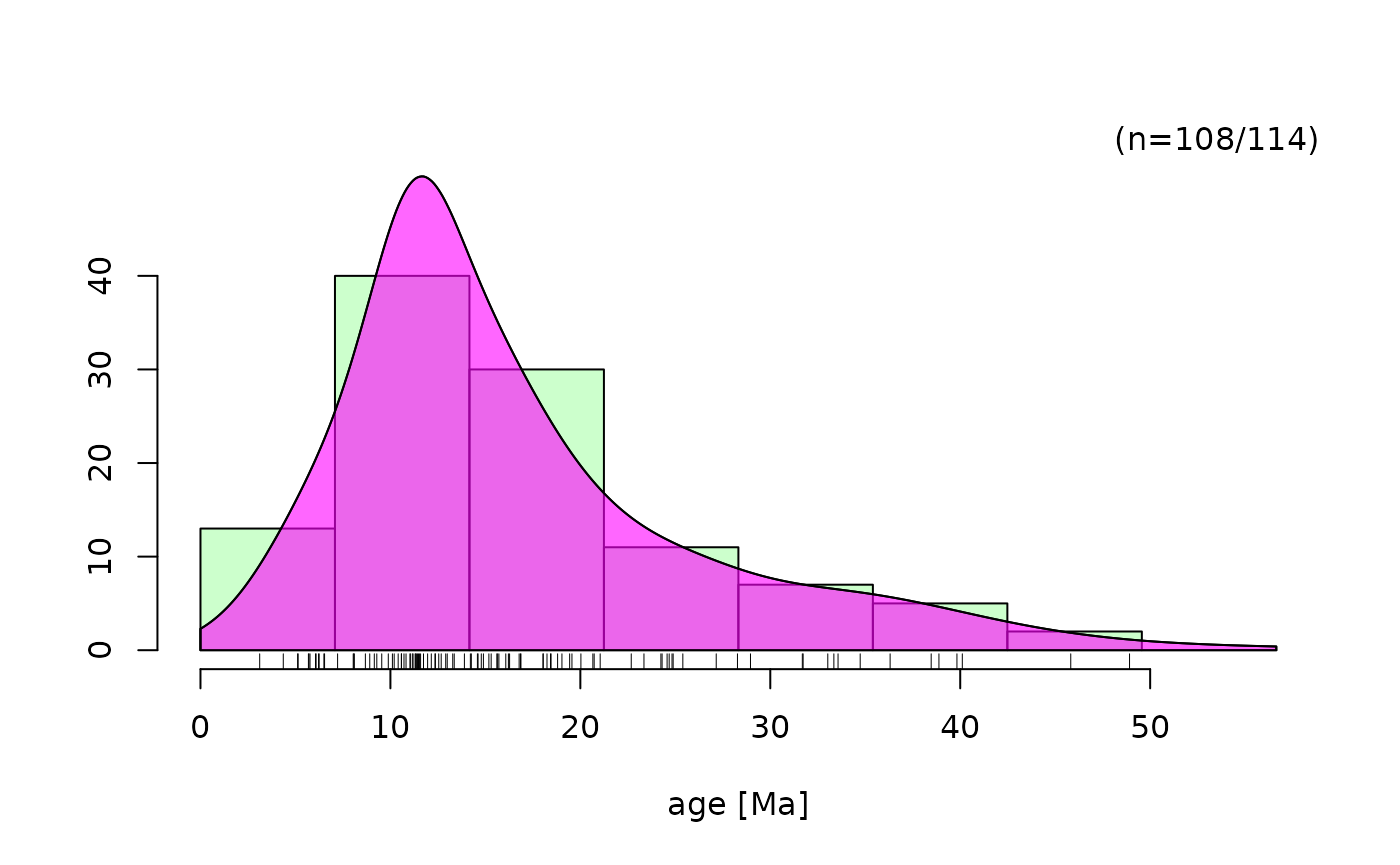
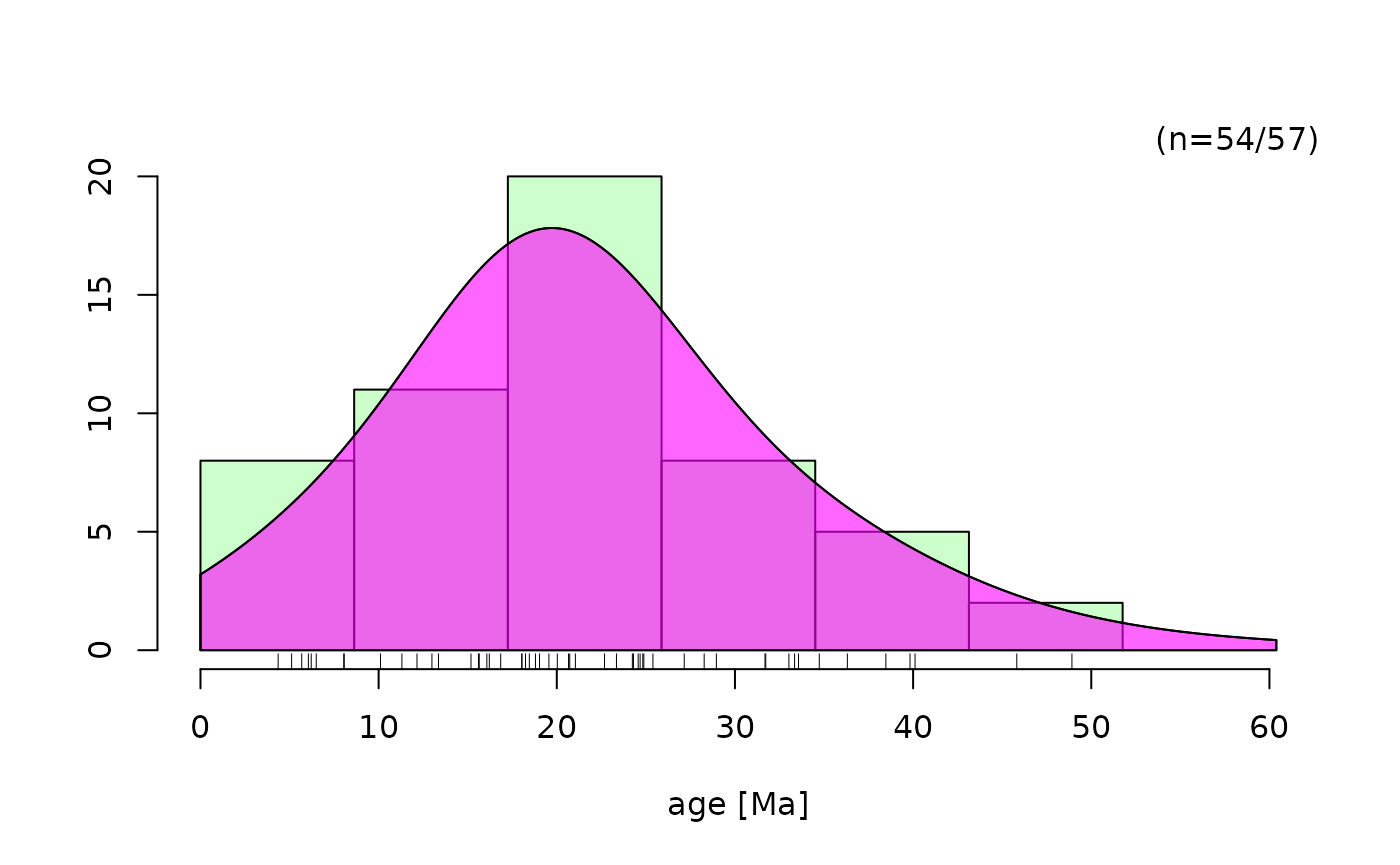
Deploying to gh-pages from @ tobiste/laftr@8ab424a7ccd1a854e1b14a711eefb8ea1fcf62c2 🚀

diff --git a/reference/aKDE.html b/reference/aKDE.html
@@ -215,22 +215,24 @@ re-scaled to keep doing so. Will be ignored is <code>adaptive</code> is <code>TR
 
     <div class="section level2">
     <h2 id="ref-examples">Examples<a class="anchor" aria-label="anchor" href="#ref-examples"></a></h2>
-    <div class="sourceCode"><pre class="sourceCode r"><code><span class="r-in"><span><span class="fu"><a href="https://rdrr.io/r/utils/data.html" class="external-link">data</a></span><span class="op">(</span><span class="st">"examples"</span>, package <span class="op">=</span> <span class="st">"IsoplotR"</span><span class="op">)</span></span></span>
-<span class="r-in"><span><span class="co"># IsoplotR::kde(examples$UPb)</span></span></span>
-<span class="r-in"><span><span class="va">ages</span> <span class="op">&lt;-</span> <span class="fu">IsoplotR</span><span class="fu">::</span><span class="fu"><a href="https://rdrr.io/pkg/IsoplotR/man/age.html" class="external-link">age</a></span><span class="op">(</span><span class="va">examples</span><span class="op">$</span><span class="va">UPb</span><span class="op">)</span><span class="op">[</span>, <span class="st">"t.conc"</span><span class="op">]</span></span></span>
-<span class="r-in"><span><span class="va">unc</span> <span class="op">&lt;-</span> <span class="fu">IsoplotR</span><span class="fu">::</span><span class="fu"><a href="https://rdrr.io/pkg/IsoplotR/man/age.html" class="external-link">age</a></span><span class="op">(</span><span class="va">examples</span><span class="op">$</span><span class="va">UPb</span><span class="op">)</span><span class="op">[</span>, <span class="st">"s[t.conc]"</span><span class="op">]</span></span></span>
-<span class="r-err co"><span class="r-pr">#&gt;</span> <span class="error">Error in IsoplotR::age(examples$UPb)[, "s[t.conc]"]:</span> subscript out of bounds</span>
-<span class="r-in"><span></span></span>
-<span class="r-in"><span><span class="fu">ggplot2</span><span class="fu">::</span><span class="fu"><a href="https://ggplot2.tidyverse.org/reference/ggplot.html" class="external-link">ggplot</a></span><span class="op">(</span>data <span class="op">=</span> <span class="fu"><a href="https://rdrr.io/r/base/data.frame.html" class="external-link">data.frame</a></span><span class="op">(</span>ages <span class="op">=</span> <span class="va">ages</span>, unc <span class="op">=</span> <span class="va">unc</span><span class="op">)</span>, mapping <span class="op">=</span> <span class="fu">ggplot2</span><span class="fu">::</span><span class="fu"><a href="https://ggplot2.tidyverse.org/reference/aes.html" class="external-link">aes</a></span><span class="op">(</span>x <span class="op">=</span> <span class="va">ages</span><span class="op">)</span><span class="op">)</span> <span class="op">+</span></span></span>
+    <div class="sourceCode"><pre class="sourceCode r"><code><span class="r-in"><span><span class="co">#' data("sample")</span></span></span>
+<span class="r-in"><span><span class="va">example</span> <span class="op">&lt;-</span> <span class="fu"><a href="age_ICP.html">age_ICP</a></span><span class="op">(</span><span class="va">sample</span>, zeta <span class="op">=</span> <span class="fu"><a href="https://rdrr.io/r/base/c.html" class="external-link">c</a></span><span class="op">(</span><span class="fl">0.1188</span>, <span class="fl">0.0119</span><span class="op">)</span><span class="op">)</span></span></span>
+<span class="r-in"><span><span class="co"># IsoplotR::kde(example$ages$t)</span></span></span>
+<span class="r-in"><span><span class="fu">ggplot2</span><span class="fu">::</span><span class="fu"><a href="https://ggplot2.tidyverse.org/reference/ggplot.html" class="external-link">ggplot</a></span><span class="op">(</span>data <span class="op">=</span> <span class="va">example</span><span class="op">$</span><span class="va">ages</span>, mapping <span class="op">=</span> <span class="fu">ggplot2</span><span class="fu">::</span><span class="fu"><a href="https://ggplot2.tidyverse.org/reference/aes.html" class="external-link">aes</a></span><span class="op">(</span>x <span class="op">=</span> <span class="va">t</span><span class="op">)</span><span class="op">)</span> <span class="op">+</span></span></span>
 <span class="r-in"><span>  <span class="fu">stat_aKDE</span><span class="op">(</span>adaptive <span class="op">=</span> <span class="cn">TRUE</span><span class="op">)</span> <span class="op">+</span></span></span>
 <span class="r-in"><span>  <span class="fu">stat_aKDE</span><span class="op">(</span>adaptive <span class="op">=</span> <span class="cn">FALSE</span>, color <span class="op">=</span> <span class="st">"red"</span>, fill <span class="op">=</span> <span class="cn">NA</span><span class="op">)</span></span></span>
-<span class="r-err co"><span class="r-pr">#&gt;</span> <span class="error">Error in eval(expr, envir, enclos):</span> object 'unc' not found</span>
+<span class="r-wrn co"><span class="r-pr">#&gt;</span> <span class="warning">Warning: </span>Removed 3 rows containing non-finite values (`stat_density_adaptive()`).</span>
+<span class="r-wrn co"><span class="r-pr">#&gt;</span> <span class="warning">Warning: </span>Removed 3 rows containing non-finite values (`stat_density_adaptive()`).</span>
+<span class="r-plt img"><img src="aKDE-1.png" alt="" width="700" height="433"></span>
 <span class="r-in"><span></span></span>
-<span class="r-in"><span><span class="fu">ggplot2</span><span class="fu">::</span><span class="fu"><a href="https://ggplot2.tidyverse.org/reference/ggplot.html" class="external-link">ggplot</a></span><span class="op">(</span>data <span class="op">=</span> <span class="fu"><a href="https://rdrr.io/r/base/data.frame.html" class="external-link">data.frame</a></span><span class="op">(</span>ages <span class="op">=</span> <span class="va">ages</span>, unc <span class="op">=</span> <span class="va">unc</span><span class="op">)</span>, mapping <span class="op">=</span> <span class="fu">ggplot2</span><span class="fu">::</span><span class="fu"><a href="https://ggplot2.tidyverse.org/reference/aes.html" class="external-link">aes</a></span><span class="op">(</span>x <span class="op">=</span> <span class="va">ages</span>, weight <span class="op">=</span> <span class="va">ages</span><span class="op">/</span><span class="va">unc</span><span class="op">)</span><span class="op">)</span> <span class="op">+</span></span></span>
-<span class="r-in"><span>  <span class="fu">geom_aKDE</span><span class="op">(</span><span class="fu">aes</span><span class="op">(</span>y <span class="op">=</span> <span class="fu">after_stat</span><span class="op">(</span><span class="va">scaled</span><span class="op">)</span><span class="op">)</span>, from <span class="op">=</span> <span class="fl">220</span>, to <span class="op">=</span> <span class="fl">260</span>, kernel <span class="op">=</span> <span class="st">"epanechnikov"</span>, fill <span class="op">=</span> <span class="st">"steelblue"</span>, alpha <span class="op">=</span> <span class="fl">.75</span><span class="op">)</span> <span class="op">+</span></span></span>
-<span class="r-in"><span>  <span class="fu">ggplot2</span><span class="fu">::</span><span class="fu"><a href="https://ggplot2.tidyverse.org/reference/geom_histogram.html" class="external-link">geom_histogram</a></span><span class="op">(</span><span class="fu">aes</span><span class="op">(</span>y <span class="op">=</span> <span class="fu">after_stat</span><span class="op">(</span><span class="va">ncount</span><span class="op">)</span><span class="op">)</span>, color <span class="op">=</span> <span class="st">"grey"</span>, fill <span class="op">=</span> <span class="st">"grey"</span>, alpha <span class="op">=</span> <span class="fl">.5</span><span class="op">)</span> <span class="op">+</span></span></span>
+<span class="r-in"><span><span class="fu">ggplot2</span><span class="fu">::</span><span class="fu"><a href="https://ggplot2.tidyverse.org/reference/ggplot.html" class="external-link">ggplot</a></span><span class="op">(</span>data <span class="op">=</span> <span class="va">example</span><span class="op">$</span><span class="va">ages</span>, mapping <span class="op">=</span> <span class="fu">ggplot2</span><span class="fu">::</span><span class="fu"><a href="https://ggplot2.tidyverse.org/reference/aes.html" class="external-link">aes</a></span><span class="op">(</span>x <span class="op">=</span> <span class="va">t</span>, weight <span class="op">=</span> <span class="va">t</span> <span class="op">/</span> <span class="va">st</span><span class="op">)</span><span class="op">)</span> <span class="op">+</span></span></span>
+<span class="r-in"><span>  <span class="fu">geom_aKDE</span><span class="op">(</span><span class="fu">ggplot2</span><span class="fu">::</span><span class="fu"><a href="https://ggplot2.tidyverse.org/reference/aes.html" class="external-link">aes</a></span><span class="op">(</span>y <span class="op">=</span> <span class="fu">ggplot2</span><span class="fu">::</span><span class="fu"><a href="https://ggplot2.tidyverse.org/reference/aes_eval.html" class="external-link">after_stat</a></span><span class="op">(</span><span class="va">scaled</span><span class="op">)</span><span class="op">)</span>, kernel <span class="op">=</span> <span class="st">"epanechnikov"</span>, fill <span class="op">=</span> <span class="st">"steelblue"</span>, alpha <span class="op">=</span> <span class="fl">.75</span><span class="op">)</span> <span class="op">+</span></span></span>
+<span class="r-in"><span>  <span class="fu">ggplot2</span><span class="fu">::</span><span class="fu"><a href="https://ggplot2.tidyverse.org/reference/geom_histogram.html" class="external-link">geom_histogram</a></span><span class="op">(</span><span class="fu">ggplot2</span><span class="fu">::</span><span class="fu"><a href="https://ggplot2.tidyverse.org/reference/aes.html" class="external-link">aes</a></span><span class="op">(</span>y <span class="op">=</span> <span class="fu">ggplot2</span><span class="fu">::</span><span class="fu"><a href="https://ggplot2.tidyverse.org/reference/aes_eval.html" class="external-link">after_stat</a></span><span class="op">(</span><span class="va">ncount</span><span class="op">)</span><span class="op">)</span>, color <span class="op">=</span> <span class="st">"grey"</span>, fill <span class="op">=</span> <span class="st">"grey"</span>, alpha <span class="op">=</span> <span class="fl">.5</span><span class="op">)</span> <span class="op">+</span></span></span>
 <span class="r-in"><span>  <span class="fu">ggplot2</span><span class="fu">::</span><span class="fu"><a href="https://ggplot2.tidyverse.org/reference/geom_rug.html" class="external-link">geom_rug</a></span><span class="op">(</span>alpha <span class="op">=</span> <span class="fl">0.5</span><span class="op">)</span></span></span>
-<span class="r-err co"><span class="r-pr">#&gt;</span> <span class="error">Error in eval(expr, envir, enclos):</span> object 'unc' not found</span>
+<span class="r-wrn co"><span class="r-pr">#&gt;</span> <span class="warning">Warning: </span>Removed 3 rows containing non-finite values (`stat_density_adaptive()`).</span>
+<span class="r-msg co"><span class="r-pr">#&gt;</span> `stat_bin()` using `bins = 30`. Pick better value with `binwidth`.</span>
+<span class="r-wrn co"><span class="r-pr">#&gt;</span> <span class="warning">Warning: </span>Removed 3 rows containing non-finite values (`stat_bin()`).</span>
+<span class="r-plt img"><img src="aKDE-2.png" alt="" width="700" height="433"></span>
 </code></pre></div>
     </div>
   </main><aside class="col-md-3"><nav id="toc"><h2>On this page</h2>

diff --git a/articles/laftr.html b/articles/laftr.html
@@ -209,10 +209,10 @@ calibration</p>
 <p>using the functions from the <code>IsoplotR</code> package (P.
 Vermeesch):</p>
 <div class="sourceCode" id="cb19"><pre class="downlit sourceCode r">
-<code class="sourceCode R"><span><span class="fu">IsoplotR</span><span class="fu">::</span><span class="fu"><a href="https://rdrr.io/pkg/IsoplotR/man/kde.html" class="external-link">kde</a></span><span class="op">(</span><span class="va">ages.iso</span><span class="op">)</span></span></code></pre></div>
-<p><img src="laftr_files/figure-html/kde-1.png" width="700">
-or the <code>laftr</code> function <code><a href="../reference/aKDE.html">geom_aKDE()</a></code> using using
-adaptive KDE with <code>ggplot2</code>:</p>
+<code class="sourceCode R"><span><span class="fu">IsoplotR</span><span class="fu">::</span><span class="fu"><a href="https://rdrr.io/pkg/IsoplotR/man/kde.html" class="external-link">kde</a></span><span class="op">(</span><span class="va">ages.iso</span><span class="op">[</span>, <span class="fl">1</span><span class="op">]</span><span class="op">)</span></span></code></pre></div>
+<p><img src="laftr_files/figure-html/kde-1.png" width="700"></p>
+<p>or the <code>laftr</code> function <code><a href="../reference/aKDE.html">geom_aKDE()</a></code> using
+using adaptive KDE with <code>ggplot2</code>:</p>
 <div class="sourceCode" id="cb20"><pre class="downlit sourceCode r">
 <code class="sourceCode R"><span><span class="kw"><a href="https://rdrr.io/r/base/library.html" class="external-link">library</a></span><span class="op">(</span><span class="va"><a href="https://ggplot2.tidyverse.org" class="external-link">ggplot2</a></span><span class="op">)</span></span>
 <span></span>

diff --git a/reference/zeta_ICP.html b/reference/zeta_ICP.html
@@ -111,7 +111,7 @@ U-concentration measurements (in ppm) and their analytical uncertainties.</p>
     <div class="section level2">
     <h2 id="ref-examples">Examples<a class="anchor" aria-label="anchor" href="#ref-examples"></a></h2>
     <div class="sourceCode"><pre class="sourceCode r"><code><span class="r-in"><span><span class="fu"><a href="https://rdrr.io/r/utils/data.html" class="external-link">data</a></span><span class="op">(</span><span class="st">"standard"</span><span class="op">)</span></span></span>
-<span class="r-in"><span><span class="fu">zeta_ICP</span><span class="op">(</span><span class="va">standard</span>, spotsize <span class="op">=</span> <span class="fl">40</span>, mineral <span class="op">=</span> <span class="st">'apatite'</span>, standard <span class="op">=</span> <span class="st">'Dur'</span><span class="op">)</span></span></span>
+<span class="r-in"><span><span class="fu">zeta_ICP</span><span class="op">(</span><span class="va">standard</span>, spotsize <span class="op">=</span> <span class="fl">40</span>, mineral <span class="op">=</span> <span class="st">"apatite"</span>, standard <span class="op">=</span> <span class="st">"Dur"</span><span class="op">)</span></span></span>
 <span class="r-out co"><span class="r-pr">#&gt;</span> $data</span>
 <span class="r-out co"><span class="r-pr">#&gt;</span> <span style="color: #949494;"># A tibble: 34 × 6</span></span>
 <span class="r-out co"><span class="r-pr">#&gt;</span>    Grain     Ns UO           U       sU comments</span>

diff --git a/reference/as.fissiontracks.html b/reference/as.fissiontracks.html
@@ -76,6 +76,13 @@
 
     </div>
 
+    <div class="section level2">
+    <h2 id="ref-examples">Examples<a class="anchor" aria-label="anchor" href="#ref-examples"></a></h2>
+    <div class="sourceCode"><pre class="sourceCode r"><code><span class="r-in"><span><span class="fu"><a href="https://rdrr.io/r/utils/data.html" class="external-link">data</a></span><span class="op">(</span><span class="st">"sample"</span><span class="op">)</span></span></span>
+<span class="r-in"><span><span class="fu">as.fissiontracks</span><span class="op">(</span><span class="va">sample</span>, spotsize <span class="op">=</span> <span class="fl">40</span>, zeta <span class="op">=</span> <span class="va">session.zeta</span><span class="op">$</span><span class="va">zeta</span><span class="op">)</span></span></span>
+<span class="r-err co"><span class="r-pr">#&gt;</span> <span class="error">Error in eval(expr, envir, enclos):</span> object 'session.zeta' not found</span>
+</code></pre></div>
+    </div>
   </main><aside class="col-md-3"><nav id="toc"><h2>On this page</h2>
     </nav></aside></div>
 
